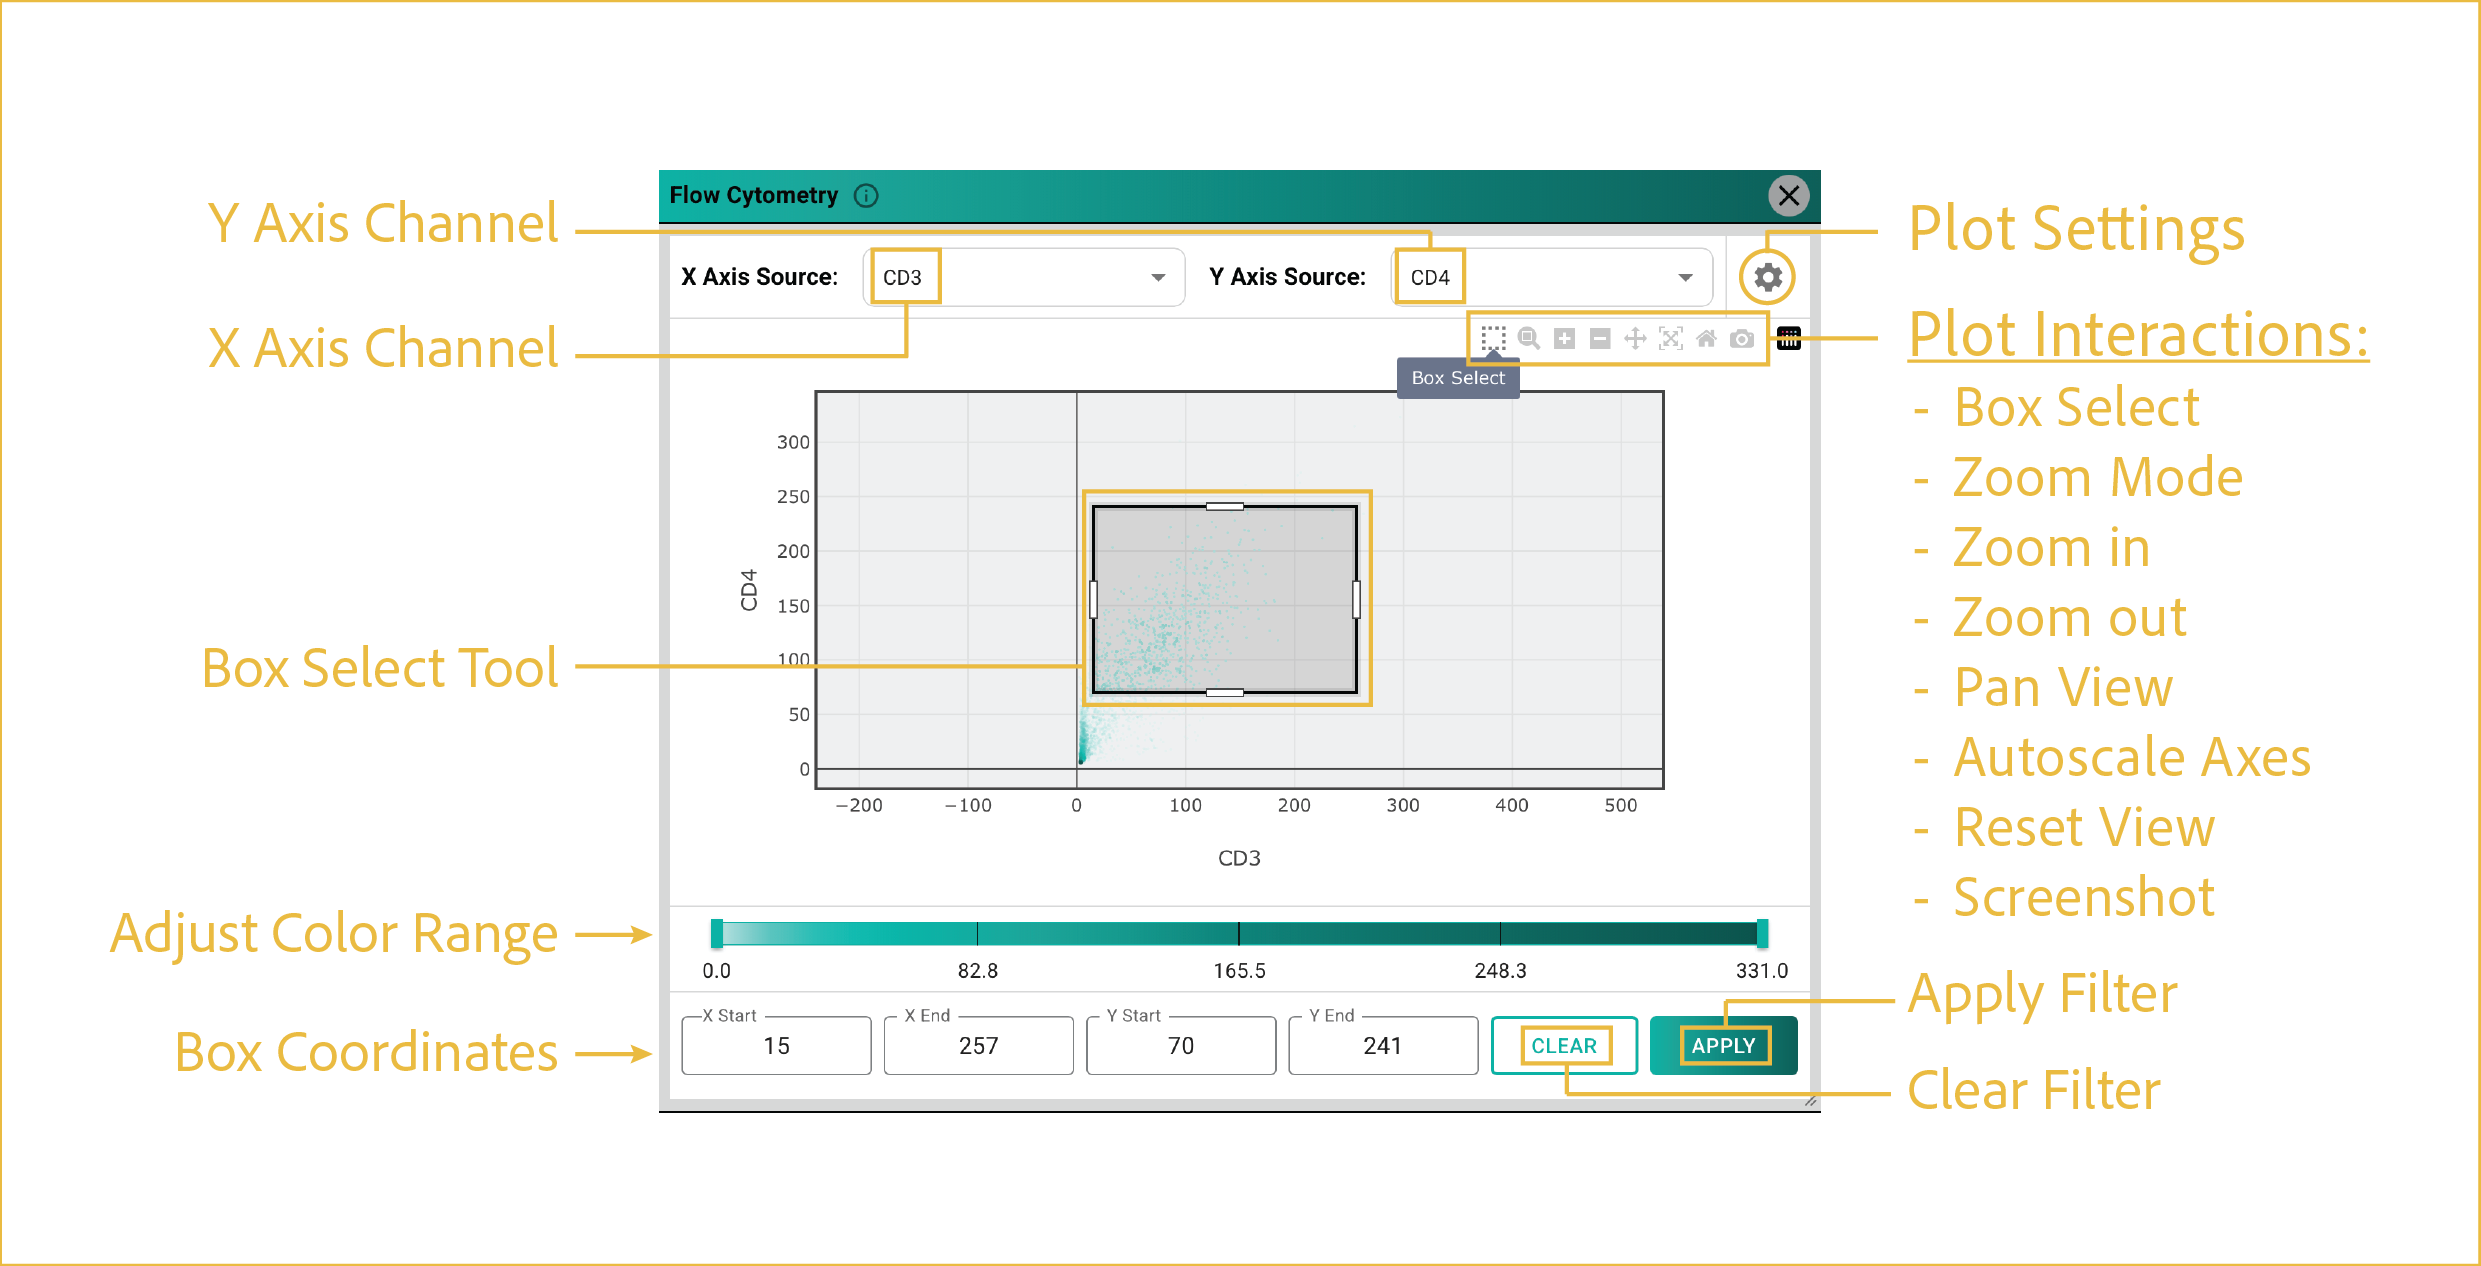
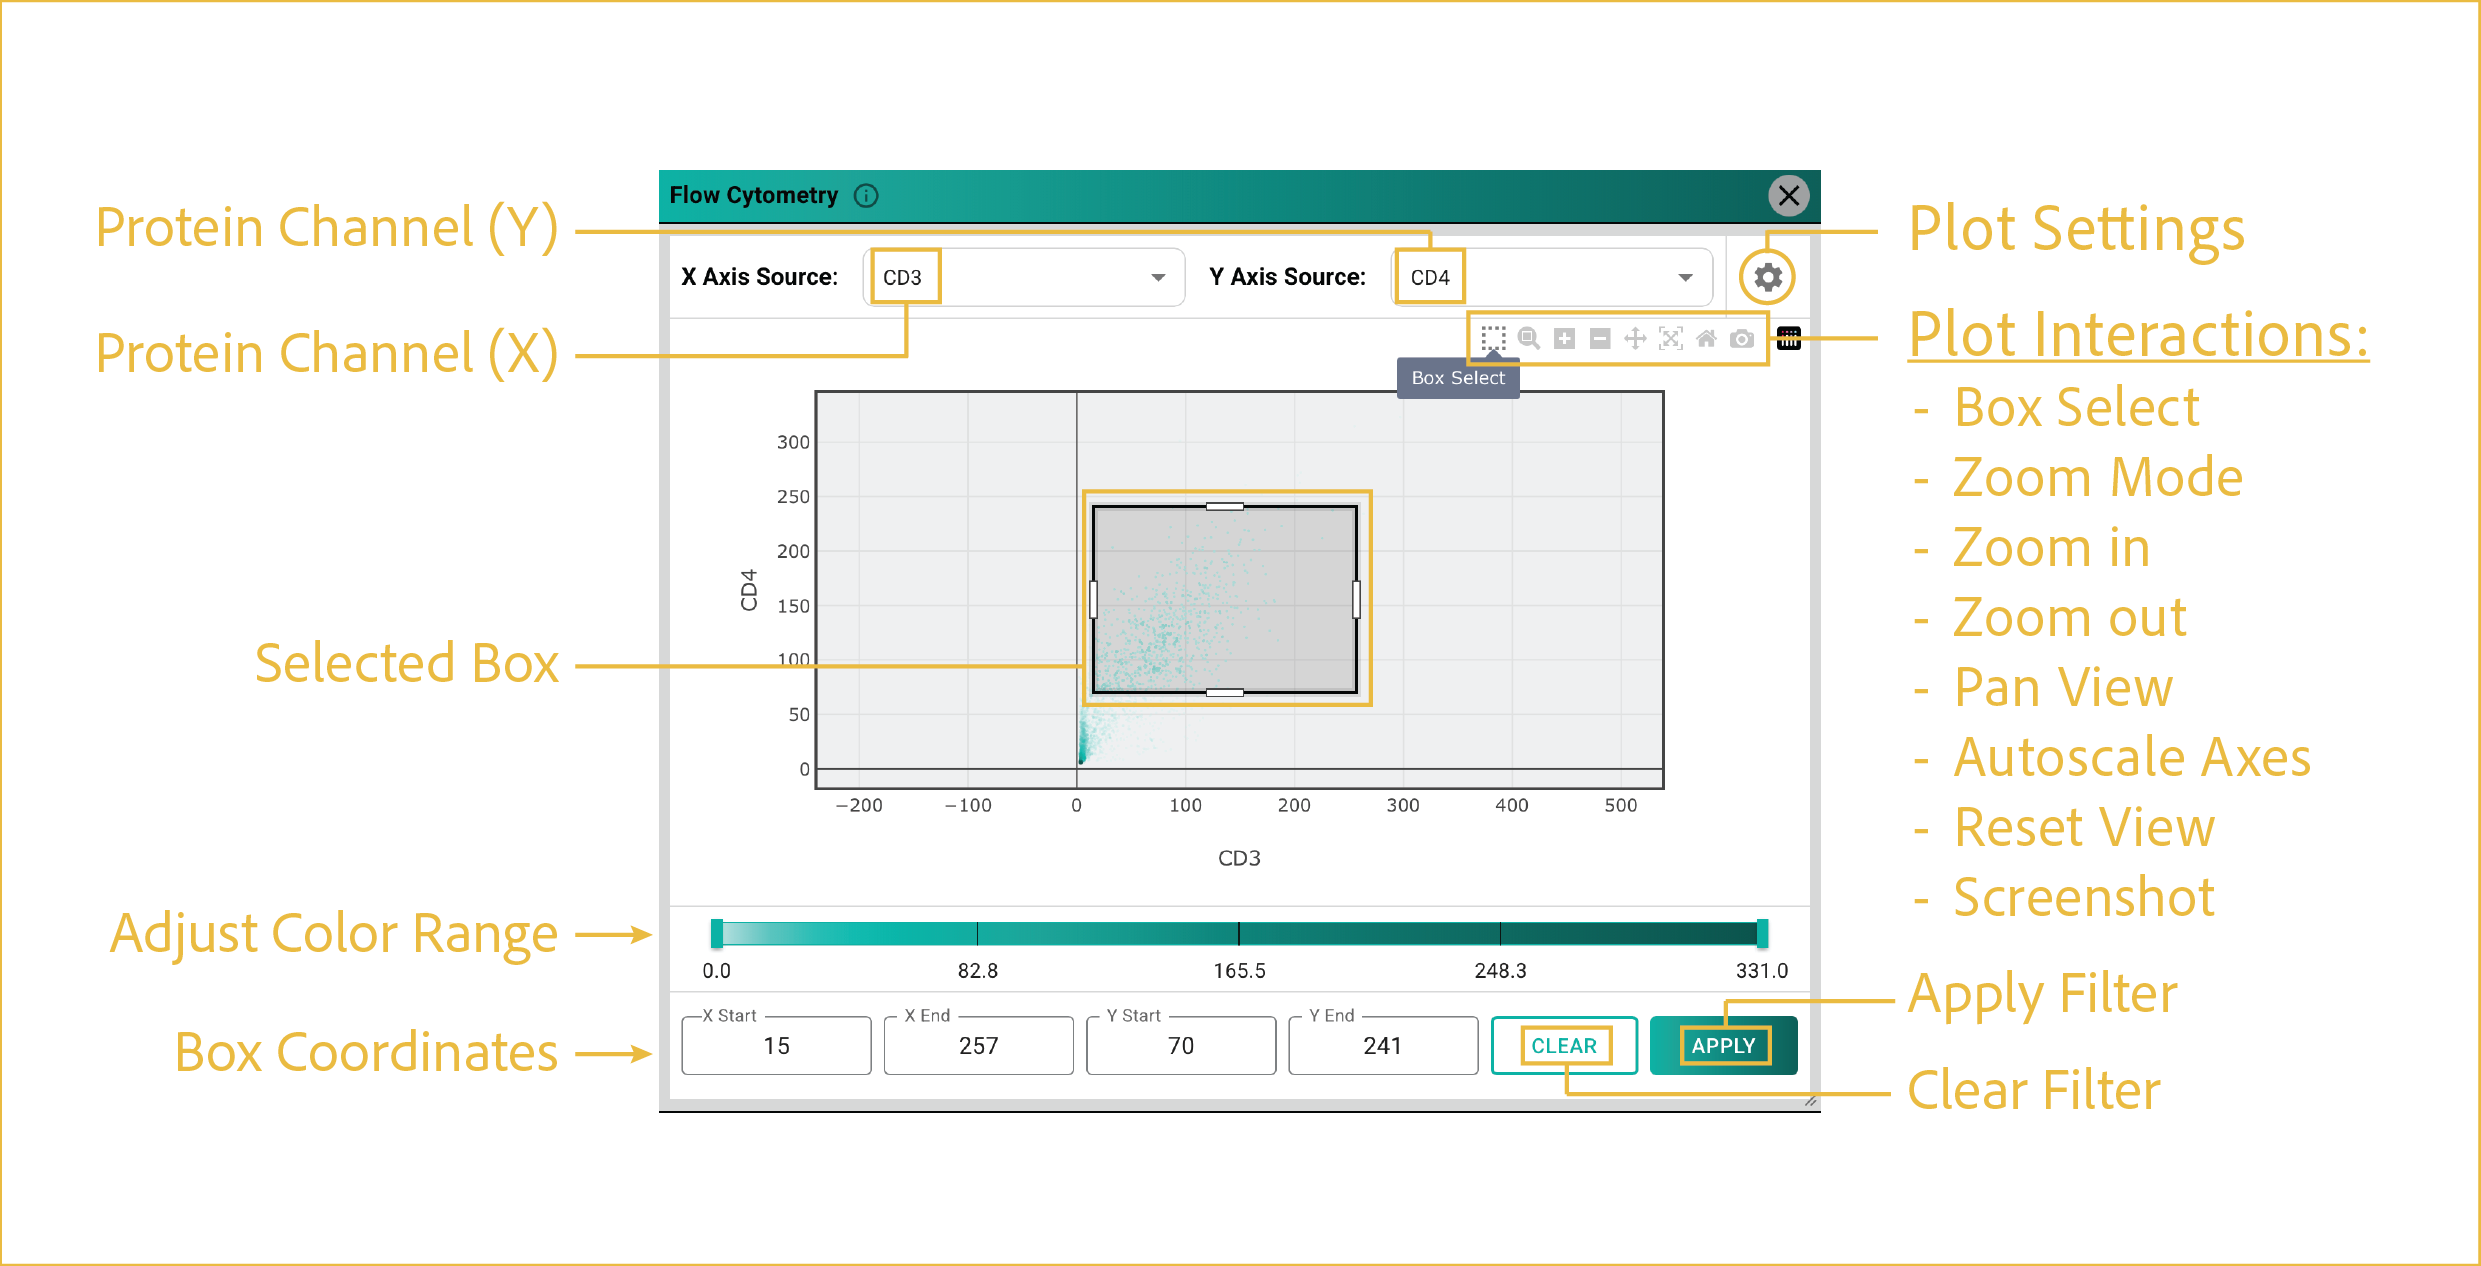
Synchronize wording of flow cytometry page with image.

Changed region(s): [[0.031, 0.2464, 0.2173, 0.3081], [0.031, 0.154, 0.2173, 0.2156], [0.0621, 0.4929, 0.2173, 0.5545]]

diff --git a/docs/usage/flow_cytometry.md b/docs/usage/flow_cytometry.md
@@ -13,7 +13,7 @@ This section describes how to use the flow cytometry filtering tool to select an
 
 ## features
 
-- <b><u>Protein Channel Selection:</u></b>
+- <b><u>Protein Channel (X/Y):</u></b>
 
       Select two protein channels to compare cell-level protein intensity values.
 
@@ -21,9 +21,7 @@ This section describes how to use the flow cytometry filtering tool to select an
 
 - <b><u>Plot Settings:</u></b>
 
-      Access plot customization options by clicking the gear icon in the upper-right corner of the window.
-
-      Available settings include:
+      You can access plot customization options by clicking the gear icon in the upper-right corner of the window. Available settings include:
 
       - Graph type
       - Color scale
@@ -33,30 +31,30 @@ This section describes how to use the flow cytometry filtering tool to select an
       - Logarithmic scaling
       - Additional plot display options
 
-      You can also manually adjust the color scaling range using the sliders at the bottom of the window to exclude cells above or below specified values from the visualization.
+- <b><u>Plot Interactions:</u></b>
 
-- <b><u>Plot Interaction Menu:</u></b>
+      This menu provides a variety of standard Plotly interactions. For filtering, the most important tool is **Box Select**, highlighted in the reference image. This tool is used to select a subpopulation of cells for downstream filtering. All interactions are detailed below:
 
-      This menu provides a variety of standard Plotly interactions, including:
+      - **Box Select:** Used to select cells to filter for segmentation display
+      - **Zoom Mode:** Allow dynamic scrolling in and out to change plot zoom level.
+      - **Zoom In:** Zooms in at set intervals.
+      - **Zoom Out:** Zooms out at set intervals.
+      - **Pan View:** Changes the mode to allow panning around the image with your cursor.
+      - **Autoscale Axes:** Autoscales axes to display all dots in the viewing area.
+      - **Reset View:** Return to default view for the plot.
+      - **Screenshot:** Takes a screenshot of the displayed plot area (without the tools and other UI elements displayed).
 
-      - Downloading the plot
-      - Zooming in and out
-      - Zooming to a selected area
-      - Panning across the plot
-      - Selecting a region of interest (ROI)
-      - Resetting the plot axes
+- <b><u>Selected Box:</u></b>
 
-      For filtering, the most important tool is **Box Select**, highlighted in the reference image. This tool is used to select a subpopulation of cells for downstream filtering.
+      When **Box Select** tool is clicked, you can then use your cursor the left click and drag to create a box around the cells you wish to filter for. This display shows an example of a box you may choose to select on this UMAP embedding.
 
-- <b><u>Select ROI:</u></b>
+- <b><u>Box Coordinates:</u></b>
 
-      After selecting the **Box Select** tool, navigate to the desired area of the plot and draw a box around the cells you would like to filter.
-
-      The selection box remains visible until a new selection is made or the filter is cleared. The X- and Y-axis boundaries of the selected region are displayed at the bottom of the plot.
+      This series of numbers describe the X and Y ranges of the box that you are applying the filter to. You can manually update these values if you desire.
 
 - <b><u>Apply/Clear Filter:</u></b>
 
-      Once you are satisfied with your ROI selection, click **APPLY** to display the selected cells in the main G4X Viewer window.
+      Once you are satisfied with your box selection, click **APPLY** to display the selected cells in the main G4X Viewer window.
 
       The filter remains active until you reopen the Flow Cytometry Filter tool and click **CLEAR**. Flow cytometry filtering behaves like any other segmentation filter and can be combined with other viewer filtering features.
 
